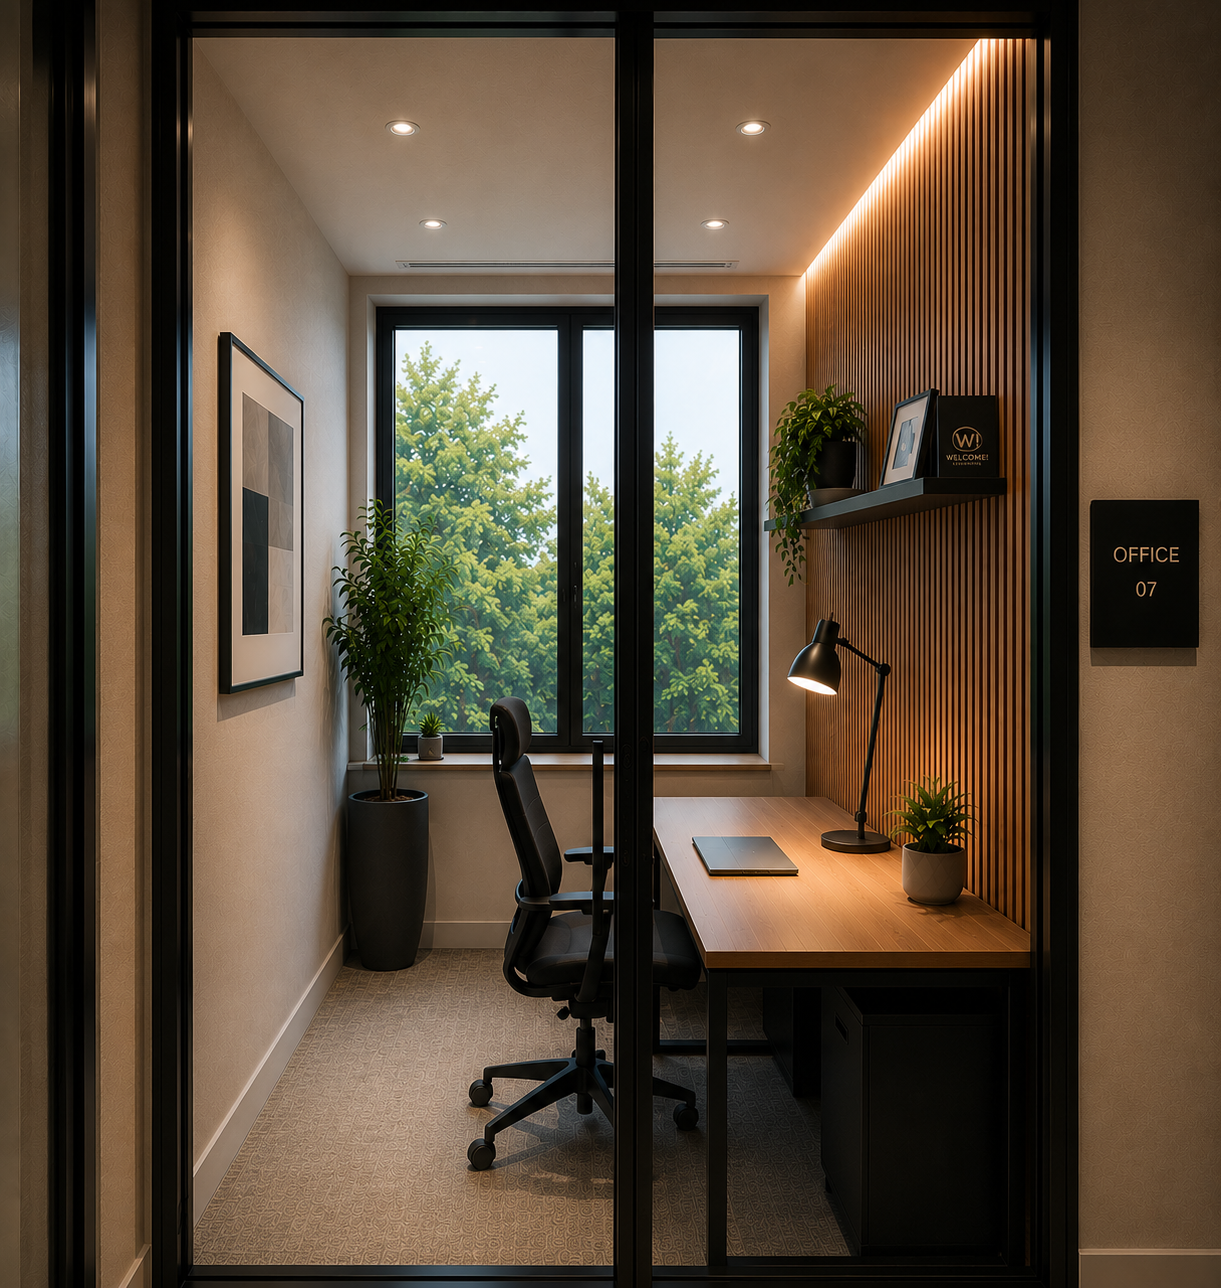
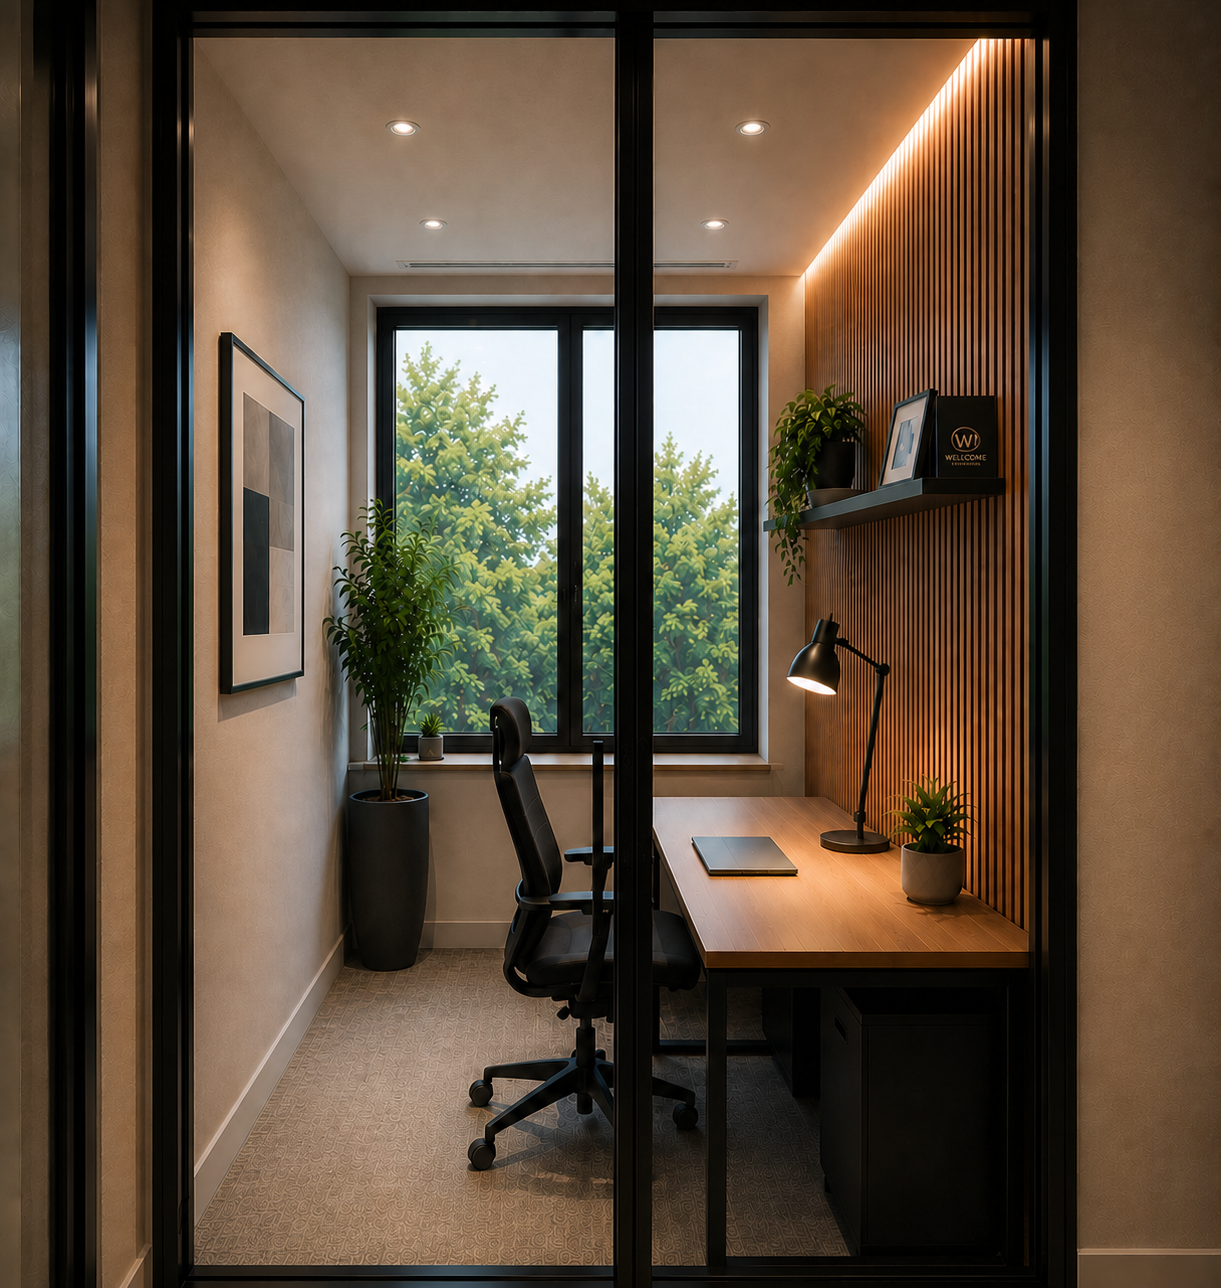
reglages tableau xcomparatif

diff --git a/src/app/globals.css b/src/app/globals.css
@@ -122,6 +122,10 @@
   --welcome-ink-fg: #ffffff;
   --welcome-line: rgba(11, 11, 11, 0.08);
   --welcome-photo-filter: none;
+  --comparison-criteria-bg: #f1f3f1;
+  --comparison-criteria-header-bg: #edf0ed;
+  --comparison-criteria-hover-bg: #e8ece8;
+  --comparison-criteria-highlight-bg: #f7f3df;
 }
 
 .dark {
@@ -169,6 +173,10 @@
   --welcome-ink-fg: #121212;
   --welcome-line: rgba(255, 255, 255, 0.12);
   --welcome-photo-filter: brightness(0.8) contrast(1.05);
+  --comparison-criteria-bg: #272a27;
+  --comparison-criteria-header-bg: #292d29;
+  --comparison-criteria-hover-bg: #2e332e;
+  --comparison-criteria-highlight-bg: #211f18;
 }
 
 @layer base {
@@ -363,6 +371,22 @@ html {
   animation-play-state: paused;
 }
 
+.comparison-criteria-header {
+  background-color: var(--comparison-criteria-header-bg);
+}
+
+.comparison-criteria-cell {
+  background-color: var(--comparison-criteria-bg);
+}
+
+.comparison-criteria-cell.comparison-criteria-highlight {
+  background-color: var(--comparison-criteria-highlight-bg);
+}
+
+.group:hover .comparison-criteria-cell {
+  background-color: var(--comparison-criteria-hover-bg);
+}
+
 @media (prefers-reduced-motion: reduce) {
   .welcome-marquee-track {
     animation: none;
@@ -425,6 +449,10 @@ html {
     --welcome-header: #ffffff;
     --welcome-ink-fg: #ffffff;
     --welcome-line: rgba(11, 11, 11, 0.08);
+    --comparison-criteria-bg: #f1f3f1;
+    --comparison-criteria-header-bg: #edf0ed;
+    --comparison-criteria-hover-bg: #e8ece8;
+    --comparison-criteria-highlight-bg: #f7f3df;
     transform: translateX(-50%);
     transform-origin: top center;
     print-color-adjust: exact;

diff --git a/src/components/SolutionComparison.tsx b/src/components/SolutionComparison.tsx
@@ -155,7 +155,7 @@ export function SolutionComparison() {
           <div className="max-w-full overflow-x-auto overscroll-x-contain lg:overflow-visible">
             <div className="min-w-[1120px]">
               <div className="comparison-sticky-header grid grid-cols-[240px_repeat(4,minmax(0,1fr))] border-b border-welcome-black/[0.09] bg-welcome-white lg:sticky lg:top-[90px] lg:z-30 lg:shadow-[0_14px_28px_-22px_rgba(11,11,11,0.45)]">
-                <div className="sticky left-0 z-20 flex flex-col items-start justify-between bg-welcome-sage/[0.12] p-6 lg:p-7">
+                <div className="comparison-criteria-header sticky left-0 z-20 flex flex-col items-start justify-between p-6 lg:p-7">
                   <Image
                     src={welcomeCoworkingCapsuleNoire}
                     alt="Welcome! Coworking"
@@ -214,8 +214,8 @@ export function SolutionComparison() {
                         }`}
                       >
                         <div
-                          className={`sticky left-0 z-10 flex items-center gap-3 px-6 py-4 transition-colors group-hover:bg-welcome-sage/[0.16] lg:px-7 ${
-                            isChatGpt ? "bg-[#f7f3df] dark:bg-[#211f18]" : "bg-welcome-sage/[0.1]"
+                          className={`comparison-criteria-cell sticky left-0 z-10 flex items-center gap-3 px-6 py-4 transition-colors lg:px-7 ${
+                            isChatGpt ? "comparison-criteria-highlight" : ""
                           }`}
                         >
                           {isChatGpt ? (
